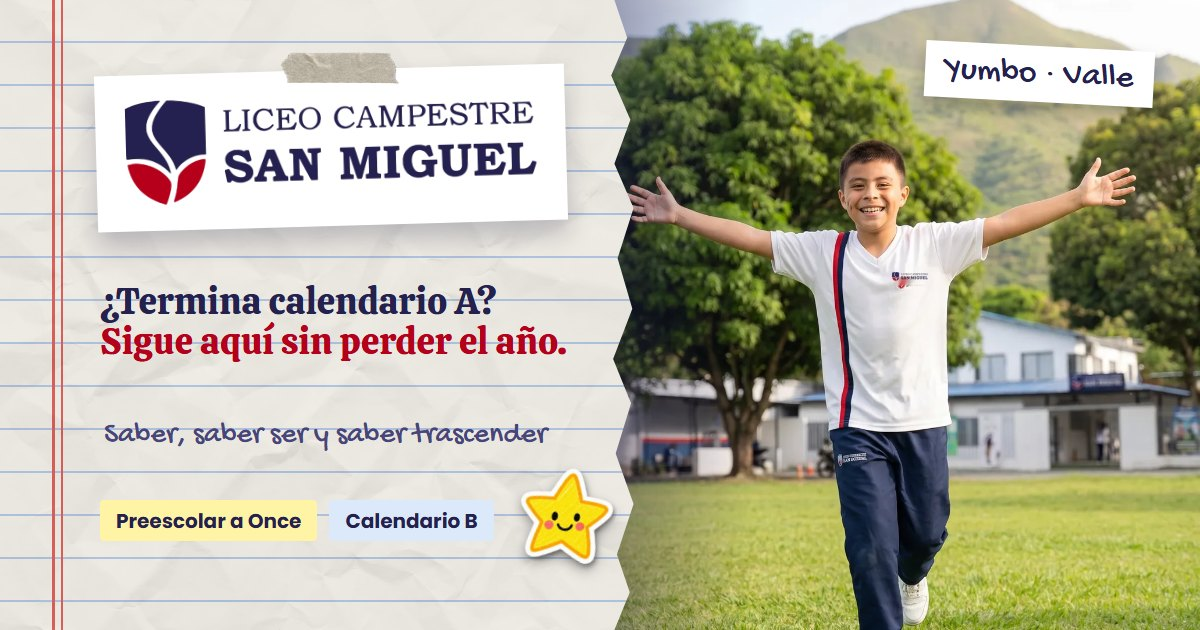
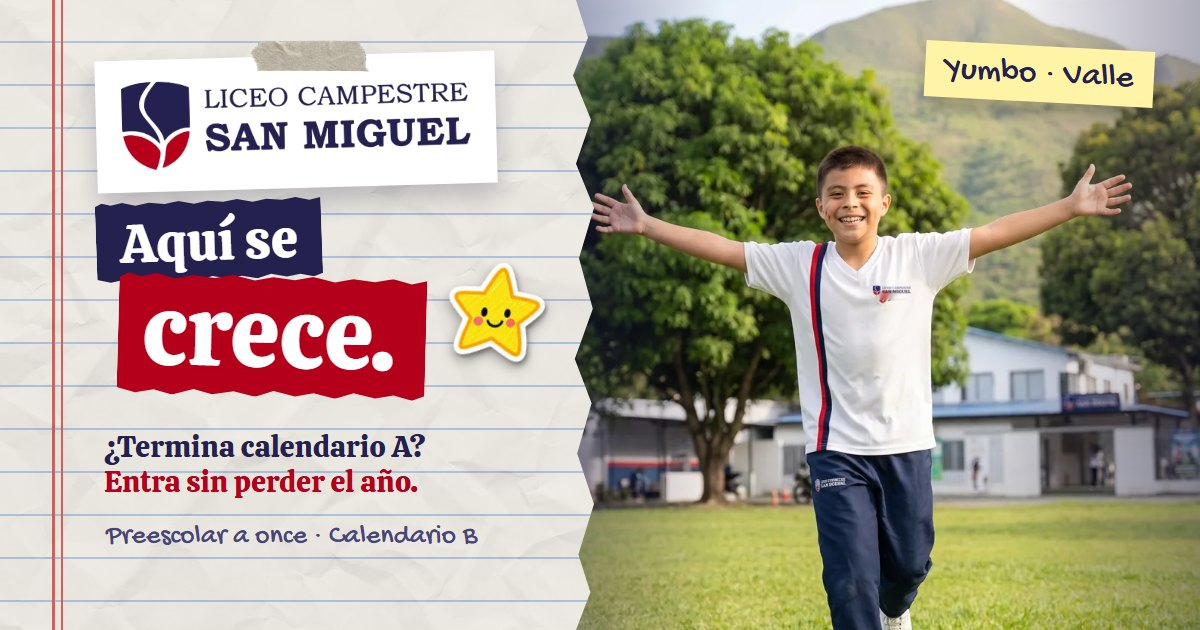
[ Liceo Campestre San Miguel ] [ Edición de la página ] [ 20/11/26 - 02:33 ]

diff --git a/san-miguel/index.html b/san-miguel/index.html
@@ -4,30 +4,30 @@
 <meta charset="utf-8">
 <meta name="viewport" content="width=device-width, initial-scale=1, viewport-fit=cover">
 <title>Liceo Campestre San Miguel · Yumbo</title>
-<meta name="description" content="Colegio campestre en Yumbo, de preescolar a once, calendario B. Agenda tu visita, mira cómo pasarte de calendario A sin perder el año y escríbele a Admisiones.">
+<meta name="description" content="Colegio campestre en Yumbo, de preescolar a once, calendario B. Agenda tu visita, mira cuándo entra tu hijo sin perder el año y encuentra pagos y uniformes si ya eres familia San Miguel.">
 <meta name="theme-color" content="#24214F">
 <meta property="og:type" content="website">
 <meta property="og:locale" content="es_CO">
 <meta property="og:site_name" content="Liceo Campestre San Miguel">
-<meta property="og:title" content="Liceo Campestre San Miguel · Yumbo">
-<meta property="og:description" content="¿Viene de calendario A? Mira cómo entra al grado que sigue sin perder el año. Agenda tu visita.">
+<meta property="og:title" content="Liceo Campestre San Miguel · Aquí se crece">
+<meta property="og:description" content="¿Termina calendario A? Mira en una línea de tiempo cuándo entra al San Miguel sin perder el año. Agenda tu visita.">
 <meta property="og:image" content="https://conoce-mas.link/san-miguel/og.jpg">
 <meta property="og:url" content="https://conoce-mas.link/san-miguel/">
 <link rel="canonical" href="https://conoce-mas.link/san-miguel/">
 <meta property="og:image:width" content="1200">
 <meta property="og:image:height" content="630">
-<meta property="og:image:alt" content="Logo del Liceo Campestre San Miguel sobre una hoja de cuaderno con la zona verde del colegio">
+<meta property="og:image:alt" content="Logo del Liceo Campestre San Miguel con un estudiante en la zona verde del colegio">
 <meta name="twitter:card" content="summary_large_image">
 <link rel="icon" href="favicon.png" type="image/png">
 <link rel="apple-touch-icon" href="icono.png">
 <link rel="preconnect" href="https://fonts.googleapis.com">
 <link rel="preconnect" href="https://fonts.gstatic.com" crossorigin>
 <link href="https://fonts.googleapis.com/css2?family=Calistoga&family=Gochi+Hand&family=Poppins:wght@500;600;700;800&display=swap" rel="stylesheet">
-<link rel="preload" as="image" href="img/heroe.webp">
+<link rel="preload" as="image" href="img/portada.webp">
 <link rel="preload" as="image" href="img/san-miguel-logo-color.webp">
 <meta name="robots" content="noai, noimageai, noarchive">
 <style>html,body{background:#24214F;margin:0}</style>
 </head>
[2 lines of base64/hex data omitted]
 </body>
 </html>
